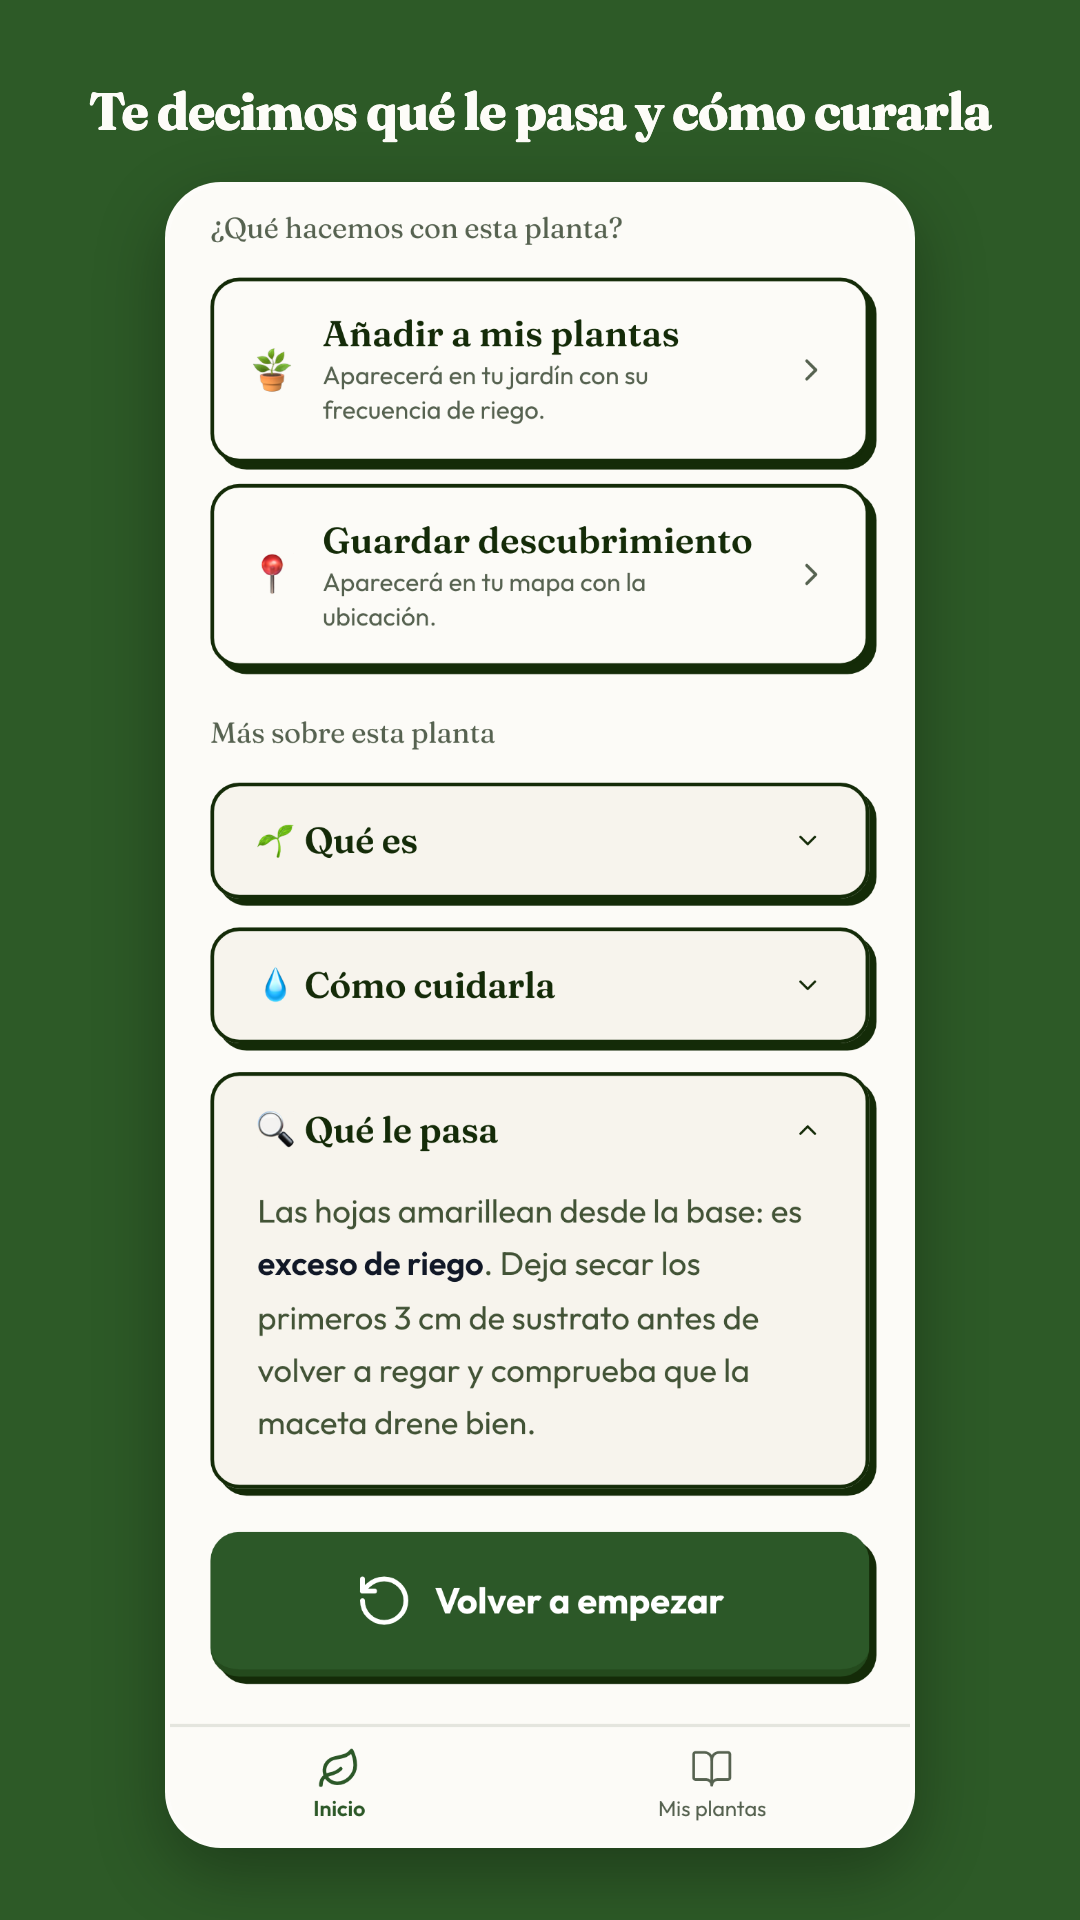
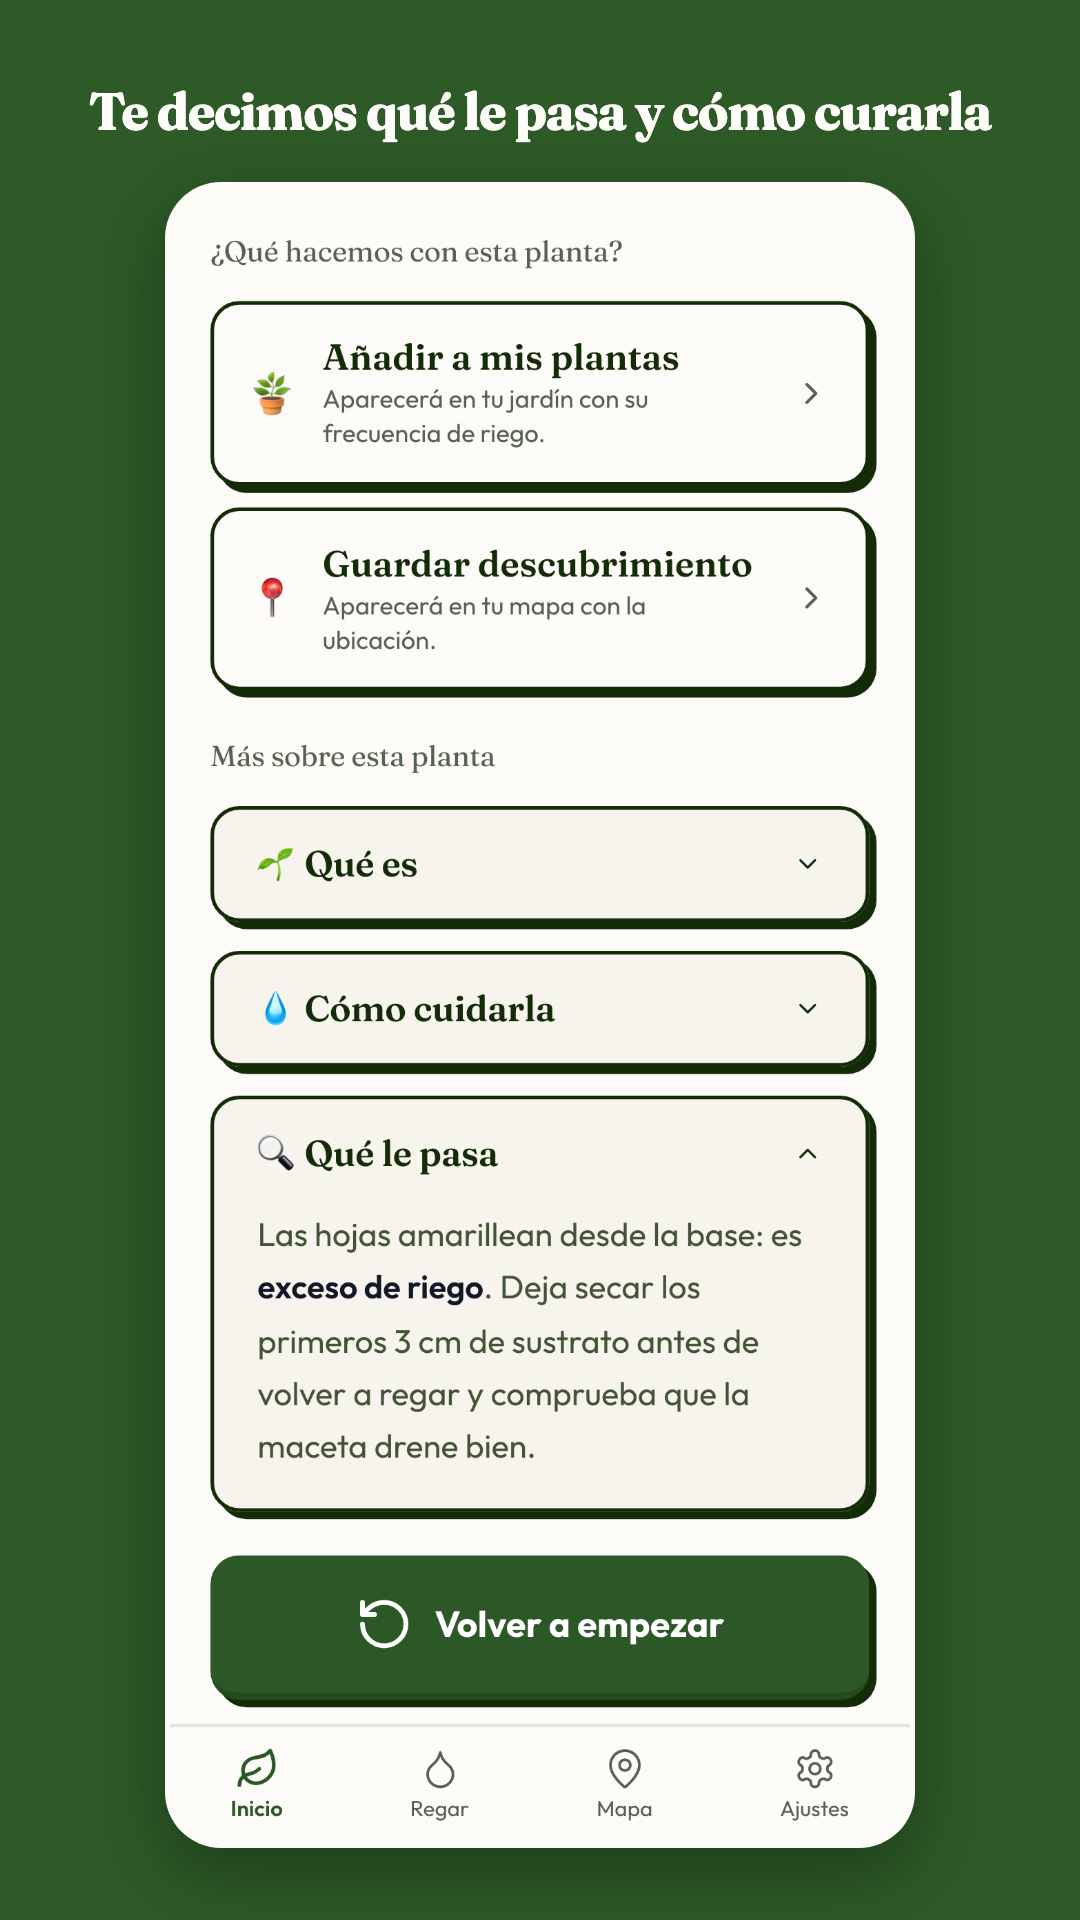
fix(store): show the full signed-in tab bar in every screenshot
Three of the four shots ran anonymously, so the tab bar showed only Inicio
and Mis plantas. The listing now shows what the app actually looks like in
use: Inicio · Regar · Mapa · Ajustes.

BottomTabBar derives Regar and Mapa from useContextCounts, which issues
head-only count queries — the count rides in the Content-Range header, not
the response body. The mock fulfilled those with JSON and no header, so
every count read 0 and both tabs stayed hidden. The route now answers HEAD
requests with a real Content-Range derived from MOCK_HISTORY, and the wild
plant carries coordinates so the Mapa tab has something to point at.

Changed region(s): [[0.1833, 0.0938, 0.825, 0.9688], [0.7944, 0.1562, 0.825, 0.1875]]

diff --git a/scripts/generate-store-assets.ts b/scripts/generate-store-assets.ts
@@ -248,7 +248,7 @@ const MOCK_SICK_PLANT = {
 const MOCK_HISTORY = [
   { id: "plant-001", name: "Monstera deliciosa", description: "Planta tropical.", care: "Riego semanal.", diagnosis: "Saludable.", image_url: PLANT_PHOTO_DATA_URI, context: "home", created_at: "2026-04-10T10:00:00Z", user_id: MOCK_USER.id },
   { id: "plant-002", name: "Pothos dorado", description: "Planta colgante.", care: "Riego cada 10 días.", diagnosis: "Hojas amarillas.", image_url: PLANT_PHOTO_DATA_URI, context: "home", created_at: "2026-03-15T14:30:00Z", user_id: MOCK_USER.id },
-  { id: "plant-003", name: "Ficus elastica", description: "Árbol de interior.", care: "Luz brillante.", diagnosis: "Buen estado.", image_url: PLANT_PHOTO_DATA_URI, context: "wild", created_at: "2026-01-20T09:00:00Z", user_id: MOCK_USER.id },
+  { id: "plant-003", name: "Ficus elastica", description: "Árbol de interior.", care: "Luz brillante.", diagnosis: "Buen estado.", image_url: PLANT_PHOTO_DATA_URI, context: "wild", lat: 40.4168, lng: -3.7038, created_at: "2026-01-20T09:00:00Z", user_id: MOCK_USER.id },
 ];
 
 import type { Page } from "@playwright/test";
@@ -270,6 +270,34 @@ async function setupMocks(page: Page, authenticated: boolean, plant = MOCK_PLANT
     await page.route(`${SUPABASE_URL}/auth/v1/signup`, (r) => r.fulfill({ status: 200, json: MOCK_SESSION }));
     await page.route(`${SUPABASE_URL}/rest/v1/plant_searches*`, (r) => {
       if (r.request().method() === "DELETE") return r.fulfill({ status: 200, json: [] });
+
+      if (r.request().method() === "HEAD") {
+        const url = r.request().url();
+        const wild = MOCK_HISTORY.filter((p) => p.context === "wild");
+        const hasCoords = (p: (typeof MOCK_HISTORY)[number]) => p.lat != null && p.lng != null;
+
+        let count = 0;
+        if (url.includes("context=eq.home")) {
+          count = MOCK_HISTORY.filter((p) => p.context === "home").length;
+        } else if (url.includes("context=eq.wild")) {
+          count = url.includes("lat=not.is.null")
+            ? wild.filter(hasCoords).length
+            : wild.filter((p) => !hasCoords(p)).length;
+        } else if (url.includes("context=eq.unclassified")) {
+          count = MOCK_HISTORY.filter((p) => p.context === "unclassified").length;
+        }
+
+        return r.fulfill({
+          status: 200,
+          headers: {
+            "content-range": count > 0 ? `0-${count - 1}/${count}` : "*/0",
+            "access-control-allow-origin": "*",
+            "access-control-expose-headers": "content-range",
+          },
+          body: "",
+        });
+      }
+
       return r.fulfill({ status: 200, json: MOCK_HISTORY });
     });
     await page.route(`${SUPABASE_URL}/rest/v1/rpc/claim_anonymous_searches`, (r) => r.fulfill({ status: 200, json: null }));
@@ -319,13 +347,13 @@ async function main() {
   }
 
   const screenshotDefs: ScreenshotDef[] = [
-    { name: "01-home", url: "/", authenticated: false, headline: "Identifica cualquier planta con una foto" },
-    { name: "02-result", url: "/", authenticated: false, headline: "Cuidados personalizados para cada planta", action: "identify" },
+    { name: "01-home", url: "/", authenticated: true, headline: "Identifica cualquier planta con una foto" },
+    { name: "02-result", url: "/", authenticated: true, headline: "Cuidados personalizados para cada planta", action: "identify" },
     { name: "03-history", url: "/mis-plantas", authenticated: true, headline: "Tu colección de plantas guardada" },
     {
       name: "04-diagnosis",
       url: "/",
-      authenticated: false,
+      authenticated: true,
       headline: "Te decimos qué le pasa y cómo curarla",
       action: "identify",
       plant: MOCK_SICK_PLANT,
